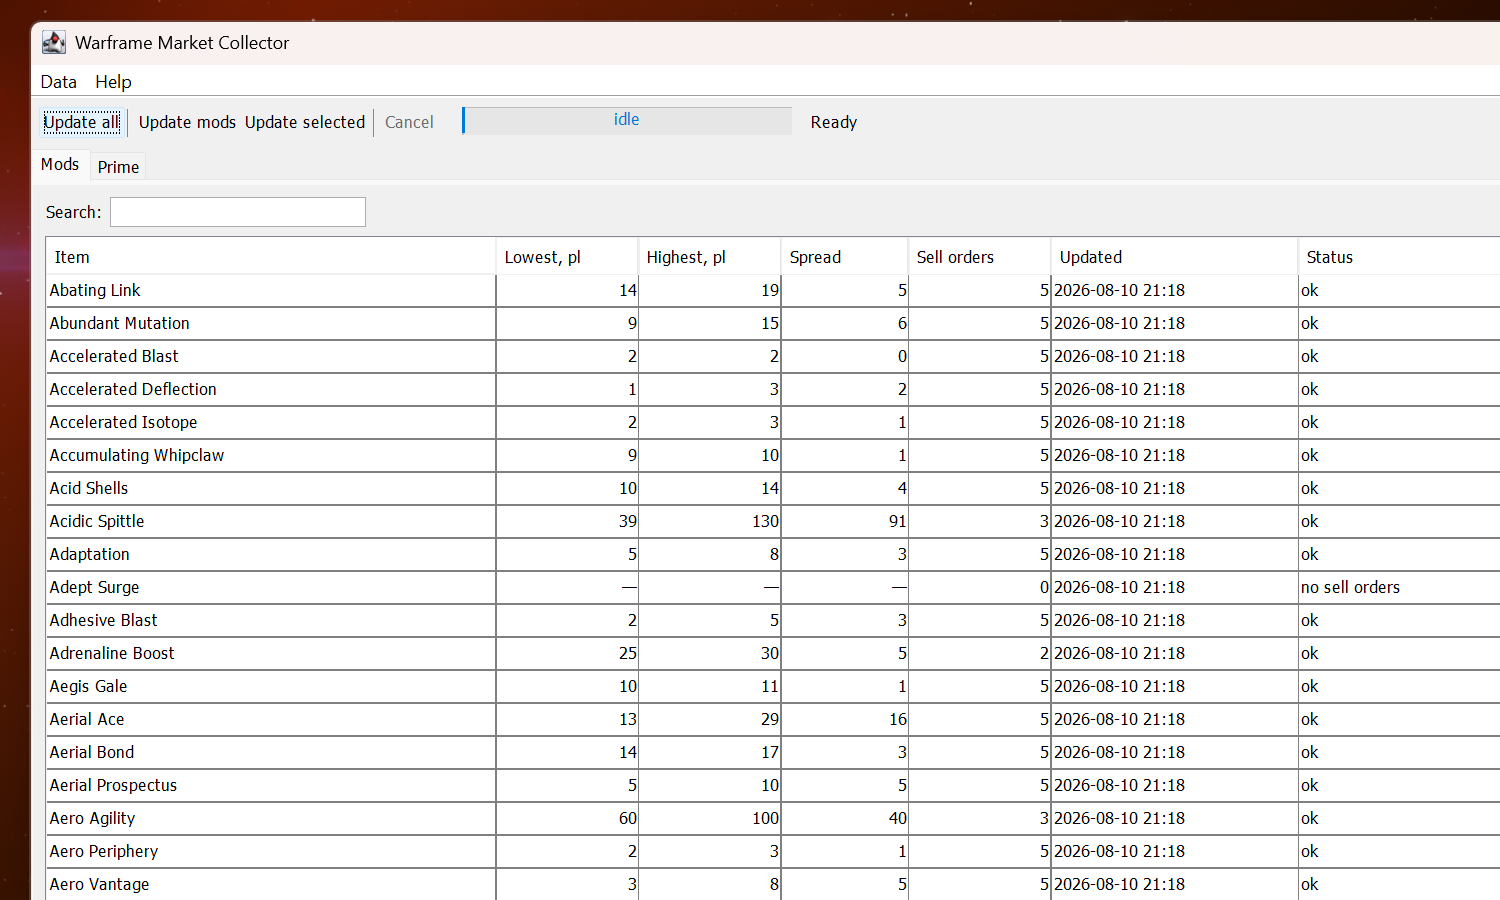
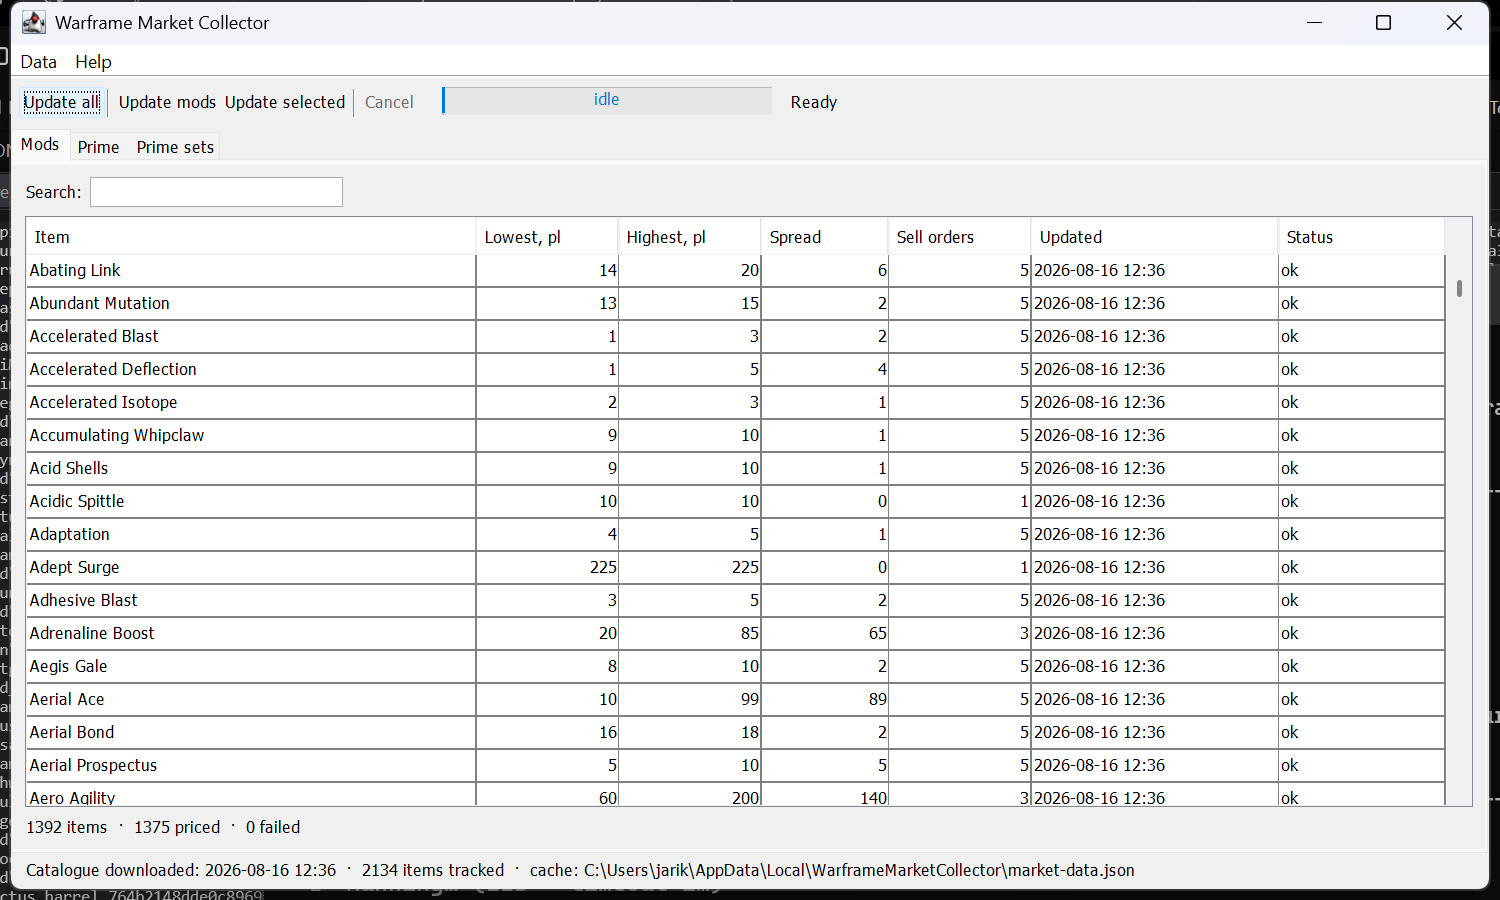
move prime sets to antoher tab

Changed region(s): [[0.0, 0.0, 1.0, 1.0], [0.552, 0.1244, 0.5827, 0.1556]]

diff --git a/src/main/java/com/warframemarket/collector/model/Category.java b/src/main/java/com/warframemarket/collector/model/Category.java
@@ -1,47 +1,56 @@
 package com.warframemarket.collector.model;
 
+import java.util.Arrays;
 import java.util.Collection;
+import java.util.Comparator;
+import java.util.List;
 import java.util.Optional;
 
-/** The two item groups the collector tracks, one per GUI tab. */
+/** The item groups the collector tracks, one per GUI tab. */
 public enum Category {
 
     MODS("Mods", "mod"),
-    PRIME("Prime", "prime");
+    PRIME("Prime", "prime"),
+    PRIME_SETS("Prime sets", "prime", "set");
+
+    /**
+     * The most specific category wins, so "prime"+"set" lands in {@link #PRIME_SETS}
+     * rather than {@link #PRIME}. Ties are broken by declaration order, which keeps the
+     * two "prime" augment mods (tagged both {@code mod} and {@code prime}) in
+     * {@link #MODS} - the order tabs appear in is therefore free to change without
+     * changing how items are classified.
+     */
+    private static final Comparator<Category> MOST_SPECIFIC_FIRST =
+            Comparator.comparingInt((Category c) -> c.requiredTags.size()).reversed()
+                    .thenComparingInt(Category::ordinal);
 
     private final String displayName;
-    private final String tag;
+    private final List<String> requiredTags;
 
-    Category(String displayName, String tag) {
+    Category(String displayName, String... requiredTags) {
         this.displayName = displayName;
-        this.tag = tag;
+        this.requiredTags = List.of(requiredTags);
     }
 
     public String displayName() {
         return displayName;
     }
 
-    /** The warframe.market tag that puts an item into this category. */
-    public String tag() {
-        return tag;
+    /** Every tag an item must carry to fall into this category. */
+    public List<String> requiredTags() {
+        return requiredTags;
     }
 
     /**
-     * Classifies an item by its tags.
-     *
-     * <p>A handful of items carry both tags (primed mods). They are put in {@link #MODS}
-     * so that every item belongs to exactly one group and is requested exactly once.
+     * Classifies an item by its tags, or returns empty if it belongs to no tracked group.
+     * Each item matches exactly one category, so it is requested exactly once.
      */
     public static Optional<Category> fromTags(Collection<String> tags) {
         if (tags == null) {
             return Optional.empty();
         }
-        if (tags.contains(MODS.tag)) {
-            return Optional.of(MODS);
-        }
-        if (tags.contains(PRIME.tag)) {
-            return Optional.of(PRIME);
-        }
-        return Optional.empty();
+        return Arrays.stream(values())
+                .filter(category -> tags.containsAll(category.requiredTags))
+                .min(MOST_SPECIFIC_FIRST);
     }
 }

diff --git a/src/test/java/com/warframemarket/collector/model/CategoryTest.java b/src/test/java/com/warframemarket/collector/model/CategoryTest.java
@@ -19,12 +19,41 @@ class CategoryTest {
     @Test
     void dropsEverythingElse() {
         assertTrue(Category.fromTags(List.of("weapon", "secondary", "syndicate")).isEmpty());
+        assertTrue(Category.fromTags(List.of("set", "weapon")).isEmpty(), "a non-prime set is not tracked");
         assertTrue(Category.fromTags(List.of()).isEmpty());
         assertTrue(Category.fromTags(null).isEmpty());
     }
 
     @Test
-    void itemsCarryingBothTagsGoToModsOnly() {
+    void primeSetsGoToTheirOwnGroupRatherThanPrime() {
+        // e.g. frost_prime_set -> [set, prime, warframe]
+        assertEquals(Optional.of(Category.PRIME_SETS),
+                Category.fromTags(List.of("set", "prime", "warframe")));
+        assertEquals(Optional.of(Category.PRIME_SETS),
+                Category.fromTags(List.of("weapon", "prime", "set", "secondary")));
+    }
+
+    @Test
+    void primePartsStayInPrime() {
+        // e.g. ash_prime_blueprint -> prime but not a set
+        assertEquals(Optional.of(Category.PRIME),
+                Category.fromTags(List.of("prime", "blueprint", "warframe")));
+    }
+
+    @Test
+    void itemsCarryingBothModAndPrimeGoToModsOnly() {
+        // e.g. molecular_fission -> [nova, mod, warframe, prime, augment, rare]
         assertEquals(Optional.of(Category.MODS), Category.fromTags(List.of("mod", "prime")));
+        assertEquals(Optional.of(Category.MODS),
+                Category.fromTags(List.of("nova", "mod", "warframe", "prime", "augment", "rare")));
+    }
+
+    @Test
+    void everyCategoryHasADistinctTabName() {
+        long distinct = java.util.Arrays.stream(Category.values())
+                .map(Category::displayName)
+                .distinct()
+                .count();
+        assertEquals(Category.values().length, distinct);
     }
 }

diff --git a/src/test/java/com/warframemarket/collector/store/StateStoreTest.java b/src/test/java/com/warframemarket/collector/store/StateStoreTest.java
@@ -47,6 +47,31 @@ class StateStoreTest {
     }
 
     @Test
+    void cachedPrimeSetsMoveToTheirOwnGroupWithoutLosingPrices(@TempDir Path dir) throws Exception {
+        // A cache written before the "Prime sets" tab existed: the set is filed under PRIME.
+        Path file = dir.resolve("old-cache.json");
+        StateStore store = new StateStore(file);
+        Instant now = Instant.now();
+        store.save(new PersistedState(
+                PersistedState.CURRENT_SCHEMA_VERSION,
+                now,
+                List.of(new MarketItem("1", "frost_prime_set", "Frost Prime Set",
+                                List.of("set", "prime", "warframe"), Category.PRIME),
+                        new MarketItem("2", "frost_prime_systems", "Frost Prime Systems",
+                                List.of("prime", "component"), Category.PRIME)),
+                Map.of("frost_prime_set", PriceSnapshot.of(45, 60, 5, now))));
+
+        MarketDatabase database = MarketDatabase.from(store.load());
+
+        assertEquals(List.of("frost_prime_set"),
+                database.itemsIn(Category.PRIME_SETS).stream().map(MarketItem::slug).toList());
+        assertEquals(List.of("frost_prime_systems"),
+                database.itemsIn(Category.PRIME).stream().map(MarketItem::slug).toList());
+        assertEquals(45, database.priceOf("frost_prime_set").lowestPlatinum(),
+                "prices must survive the regrouping");
+    }
+
+    @Test
     void missingFileYieldsEmptyState(@TempDir Path dir) {
         PersistedState state = new StateStore(dir.resolve("absent.json")).load();
         assertTrue(state.items().isEmpty());

diff --git a/src/main/java/com/warframemarket/collector/service/MarketDatabase.java b/src/main/java/com/warframemarket/collector/service/MarketDatabase.java
@@ -26,10 +26,24 @@ public final class MarketDatabase {
 
     public static MarketDatabase from(PersistedState state) {
         MarketDatabase db = new MarketDatabase();
-        db.items = List.copyOf(state.items());
+        db.items = state.items().stream().map(MarketDatabase::reclassify).toList();
         db.catalogFetchedAt = state.catalogFetchedAt();
         db.prices.putAll(state.prices());
         return db;
+    }
+
+    /**
+     * Re-applies the current classification rule to a cached item, so a cache written by
+     * an older version (which had no "Prime sets" group, for example) lands in the right
+     * tab without discarding the prices it already holds. Items whose tags no longer match
+     * any category are left alone; the next catalogue refresh removes them properly.
+     */
+    private static MarketItem reclassify(MarketItem item) {
+        return Category.fromTags(item.tags())
+                .filter(category -> category != item.category())
+                .map(category -> new MarketItem(
+                        item.id(), item.slug(), item.name(), item.tags(), category))
+                .orElse(item);
     }
 
     public PersistedState toPersistedState() {

diff --git a/README.md b/README.md
@@ -16,9 +16,20 @@ second**.
    classify them.
 2. **Filters by tag** — only items tagged `mod` or `prime` are kept (2 134 of 3 837 at the
    time of writing).
-3. **Splits them into two groups** — `Mods` (1 392) and `Prime` (742). A handful of items
-   carry both tags (primed mods); they are counted as mods so every item is requested
-   exactly once.
+3. **Splits them into three groups**, one tab each:
+
+   | Tab | Rule | Items |
+   | --- | --- | --- |
+   | `Mods` | tagged `mod` | 1 392 |
+   | `Prime` | tagged `prime`, but not a set | 582 |
+   | `Prime sets` | tagged `prime` **and** `set` | 160 |
+
+   The **most specific** rule wins, so a complete prime set goes to `Prime sets` rather
+   than `Prime`; ties are broken by tab order, which keeps the two prime augment mods
+   (tagged both `mod` and `prime`) in `Mods`. Every item therefore belongs to exactly one
+   tab and is requested exactly once.
+
+   ![Prime sets tab](docs/prime-sets-tab.png)
 4. **Collects top sell orders** — for each item, `GET /v2/orders/item/{slug}/top` returns
    the best visible sell orders. They are sorted by price and the **lowest** and
    **highest** are stored, along with the sample size and a timestamp.
@@ -82,7 +93,8 @@ Techniques worth calling out:
 
 * **Update all** — re-downloads the catalogue, re-applies the tag filter, then prices
   every item.
-* **Update mods / Update prime** — prices every item in the current tab.
+* **Update mods / Update prime / Update prime sets** — prices every item in the current
+  tab; the button follows whichever tab is open.
 * **Update selected** — prices only the highlighted rows (multi-select works; also
   available from the right-click menu).
 * **Cancel** — stops a running job immediately; everything collected so far is kept.
@@ -165,7 +177,7 @@ src/main/java/com/warframemarket/collector/
 │   ├── ApiDtos.java             wire records for the v2 API
 │   └── ApiException.java
 ├── model/
-│   ├── Category.java            MODS / PRIME, plus the tag-filtering rule
+│   ├── Category.java            MODS / PRIME / PRIME_SETS + the tag-filtering rule
 │   ├── MarketItem.java
 │   └── PriceSnapshot.java       lowest/highest/count/timestamp/error
 ├── service/
@@ -189,6 +201,10 @@ src/main/java/com/warframemarket/collector/
   (five at present), not the dearest order on the whole market. That deliberately keeps
   outlier listings from dominating the figure; the *Sell orders* column shows the sample
   size behind each row.
+* Adding or changing a tab is a one-line change to the `Category` enum: the GUI builds its
+  tabs from `Category.values()`, and cached items are re-classified against the current
+  rule when the cache is loaded — so an existing cache moves items into a newly added tab
+  without losing the prices already collected for them.
 * The client requests the `pc` platform in English. Change the arguments to
   `new WarframeMarketClient(platform, language)` in `Main.java` for other platforms.
 * The app needs a graphical display; on a headless Linux box run it under `xvfb-run` or
